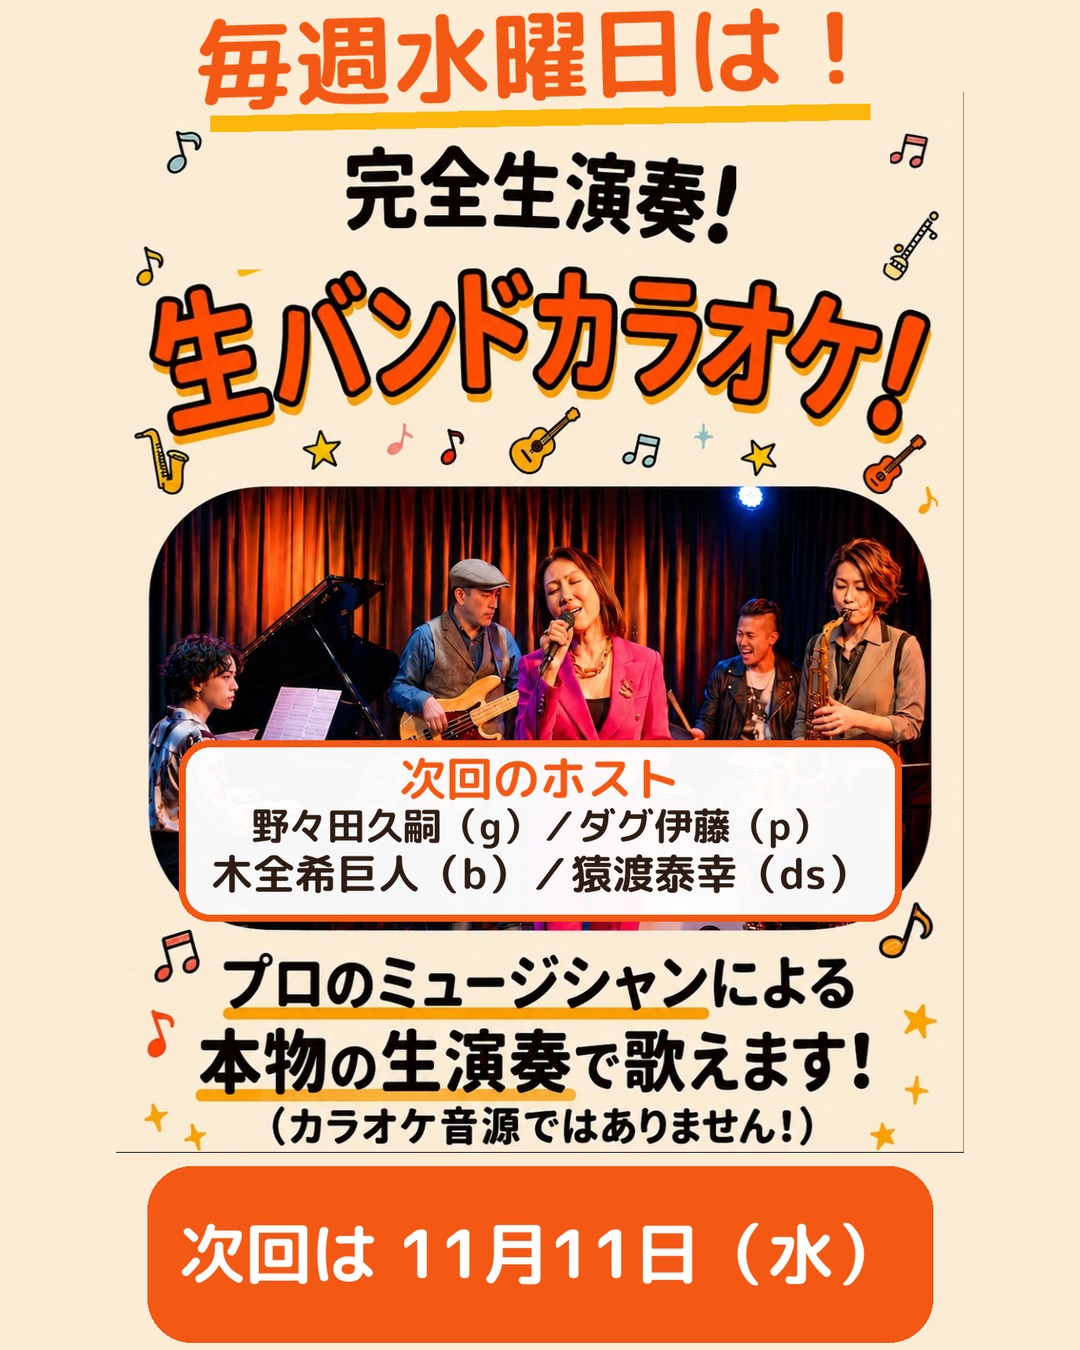
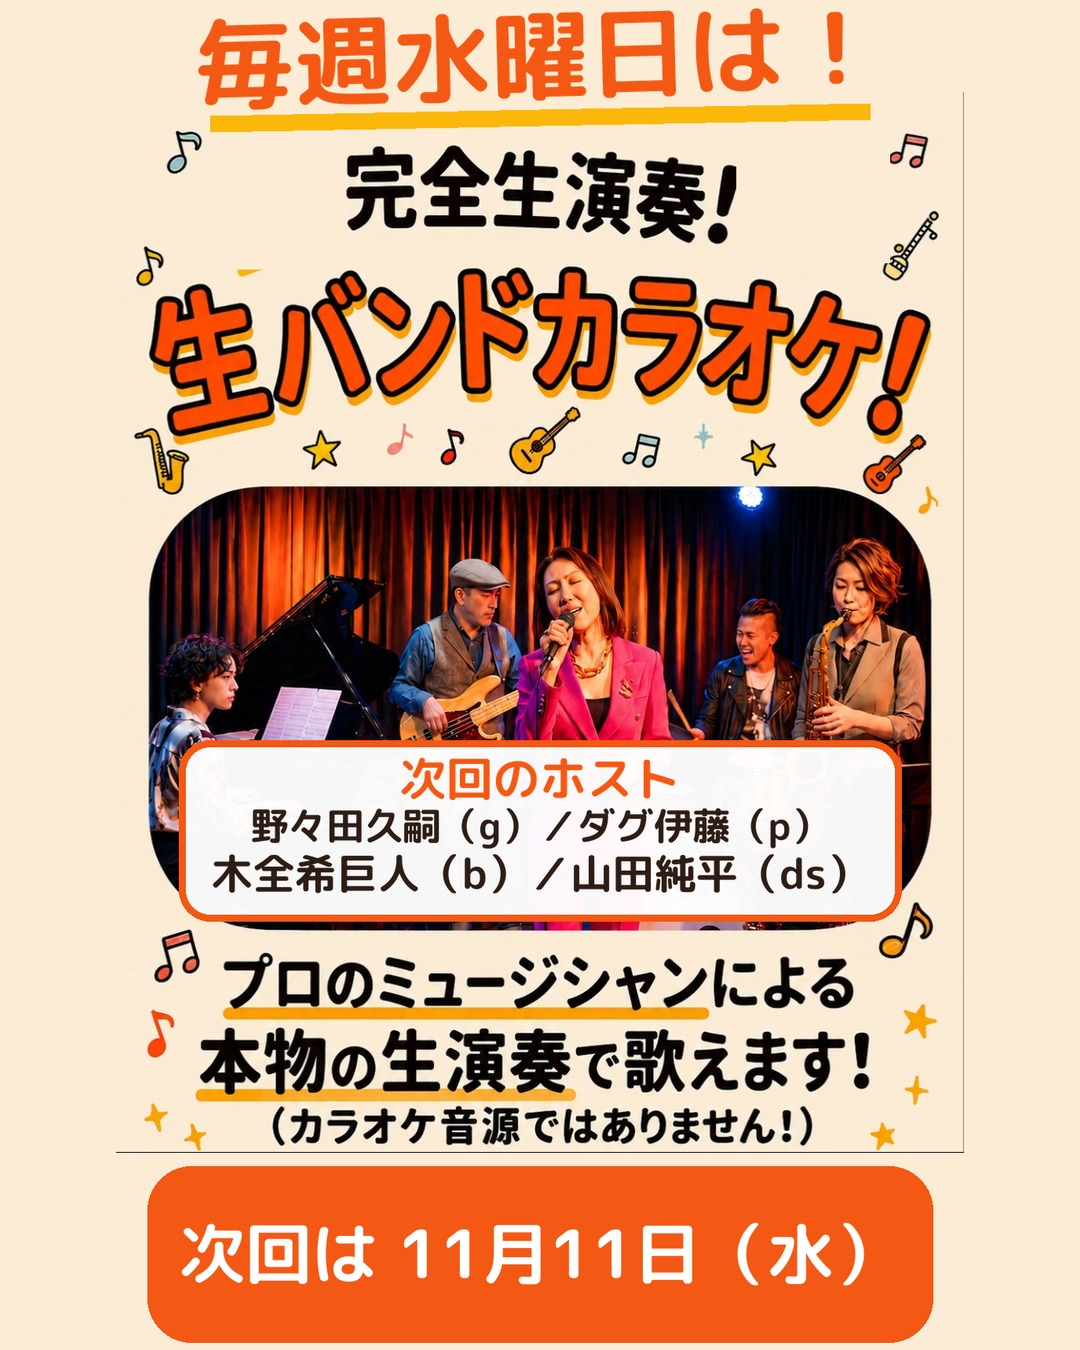
11/11 だけ猿渡さんの代わりに山田純平さん（data/substitutes.json）
その回だけの代わりを書く表を足し、build_draft.py が重ねるようにしました。
木曜の下書きづくりが何回動いても、元に戻りません。

Changed region(s): [[0.5194, 0.5911, 0.6722, 0.6844], [0.2444, 0.5911, 0.3972, 0.6533], [0.4278, 0.5911, 0.4889, 0.6222]]

diff --git a/scripts/build_draft.py b/scripts/build_draft.py
@@ -49,7 +49,24 @@ def hosts_for(date, hosts_table):
         raise SystemExit(
             f"{date} は第{n}水曜ですが、data/hosts.json に {key} がありません。"
         )
-    return n, hosts_table[key]
+    members = [dict(m) for m in hosts_table[key]]
+    return n, apply_substitutes(date, members)
+
+
+def apply_substitutes(date, members):
+    """data/substitutes.json に、その日だけの代わりの人があれば入れ替えます。"""
+    path = ROOT / "data" / "substitutes.json"
+    if not path.exists():
+        return members
+    subs = json.loads(path.read_text(encoding="utf-8")).get(date.isoformat(), [])
+    for s in subs:
+        names = [m["name"] for m in members]
+        if s["out"] not in names:
+            raise SystemExit(
+                f"data/substitutes.json: {date} のメンバーに「{s['out']}」さんがいません。"
+            )
+        members[names.index(s["out"])] = dict(s["in"])
+    return members
 
 
 def format_date(date):
